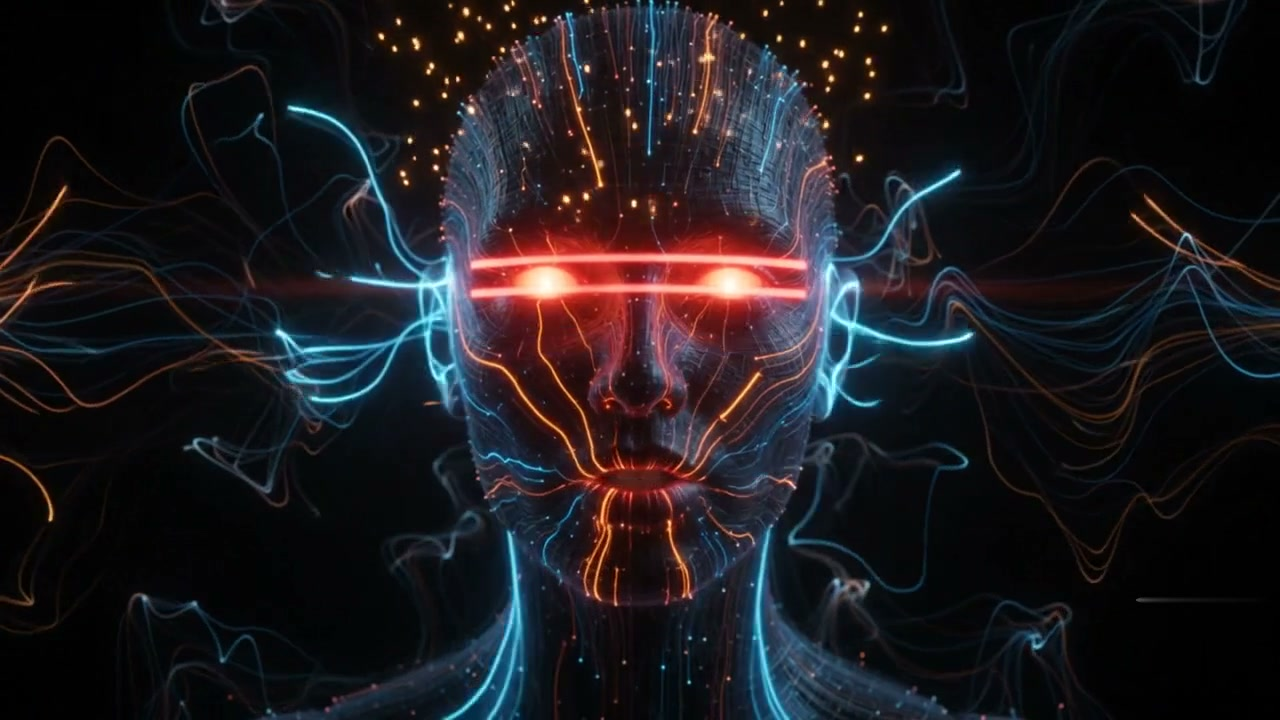
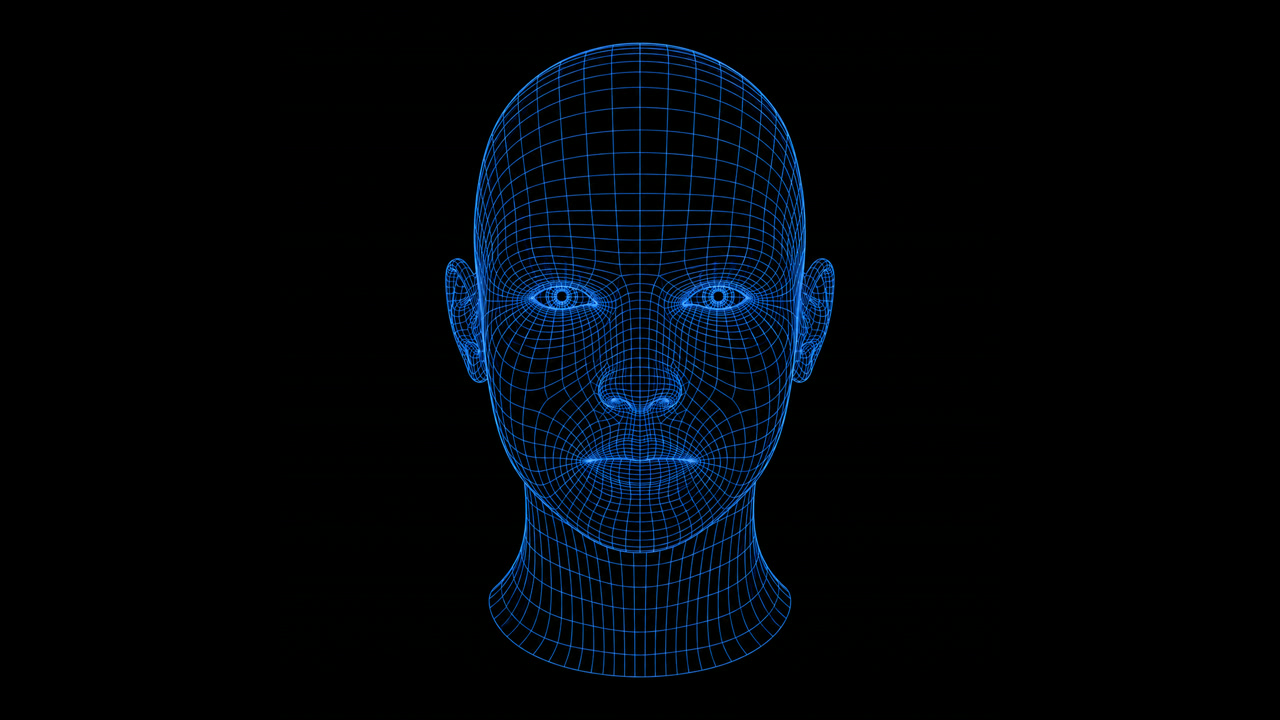
Retail v1.0.39: wireframe still face + CSS breathe in conversation mode
Replace the conversation-mode <video> with a still wireframe <img> kept
alive by a perpetual CSS breathe (idle drift+micro-scale at 5.4s; a faster
2.6s breathe plus brighter bezel glow while speaking). A still image has no
decoder, so the old idle-chop cannot recur and there is no clip to swap.
_convoFaceSwap() no-ops on a non-video element; id stays convo-face-idle for
the app.js handlers. Swap idle/loop/poster face assets to the wireframe build
(matches the approved data_intro_v3 look).

diff --git a/dashboard/theme.css b/dashboard/theme.css
@@ -2817,12 +2817,27 @@ html, body {
   object-fit: cover;
   display: block;
   opacity: 1;
-  /* Single light loop on the hardware-overlay plane — no crossfade, no
-     per-frame CSS filter, no second stream. That trio was the old chop, not
-     "video" itself. The "lights up while speaking" cue is carried entirely by
-     the container's box-shadow (.convo-face.speaking) — a cheap GPU paint. */
-  transform: translateZ(0);        /* keep the video on its own GPU layer */
+  /* Wireframe still face kept alive by a perpetual CSS "breathe" (slow drift +
+     micro-scale + a touch of brightness). One compositor-only transform on a
+     still <img> — no decoder, no overlay-plane penalty, so the old idle chop
+     cannot recur. A baseline scale (1.012) overscans past the bezel so the
+     upward drift never reveals a seam. The "talking" cue is the faster breathe
+     below plus the container glow (.convo-face.speaking) — a cheap GPU paint. */
+  transform-origin: 50% 44%;
+  animation: convoFaceIdleBreathe 5.4s ease-in-out infinite;
+  will-change: transform, filter;
   backface-visibility: hidden;
+}
+.convo-face.speaking .convo-face-vid {
+  animation: convoFaceSpeakBreathe 2.6s ease-in-out infinite;
+}
+@keyframes convoFaceIdleBreathe {
+  0%, 100% { transform: translateY(0)    scale(1.012); filter: brightness(0.97); }
+  50%      { transform: translateY(-3px) scale(1.020); filter: brightness(1.05); }
+}
+@keyframes convoFaceSpeakBreathe {
+  0%, 100% { transform: translateY(0)    scale(1.014); filter: brightness(1.00) saturate(1.00); }
+  50%      { transform: translateY(-4px) scale(1.026); filter: brightness(1.18) saturate(1.10); }
 }
 .convo-status-band {
   position: absolute;

diff --git a/dashboard/index.html b/dashboard/index.html
@@ -551,11 +551,14 @@
            first swap is instant. id stays "convo-face-idle" for back-compat with
            the app.js handlers. -->
       <div class="convo-face" id="convo-face" aria-hidden="true">
-        <video id="convo-face-idle" class="convo-face-vid"
-               src="assets/faces/daita_face_idle.opt.mp4"
-               poster="assets/faces/daita_face_poster.jpg"
-               autoplay loop muted playsinline preload="auto"
-               disablepictureinpicture></video>
+        <!-- Wireframe DATA face — a STILL image kept alive by a perpetual CSS
+             "breathe" (slow drift + micro-scale); .speaking quickens it and the
+             bezel glow lifts. A still <img> has no decoder, so there is no idle
+             chop to fight and no need to swap clips. id stays "convo-face-idle"
+             for the app.js handlers; _convoFaceSwap() no-ops on a non-video. -->
+        <img id="convo-face-idle" class="convo-face-vid"
+             src="assets/faces/daita_face_poster.jpg"
+             alt="" aria-hidden="true">
       </div>
       <div class="convo-status-band">
         <span class="convo-status-label" id="convo-status-label">INITIALIZING</span>

diff --git a/dashboard/app.js b/dashboard/app.js
@@ -4411,6 +4411,10 @@ function _prefetchSpeakingFace() {
 function _convoFaceSwap(mode) {
   const vid = document.getElementById('convo-face-idle');
   if (!vid) return;
+  // Still-image wireframe face (locked 2026-06-30): there is no video to swap —
+  // the idle/speaking cue is carried entirely by the CSS .speaking class (faster
+  // breathe + brighter glow). Never assign an .mp4 to an <img>. No-op here.
+  if (vid.tagName !== 'VIDEO') return;
   if (_faceMode === mode) {                       // already on the right clip
     if (vid.paused) { try { vid.play(); } catch (e) {} }
     return;